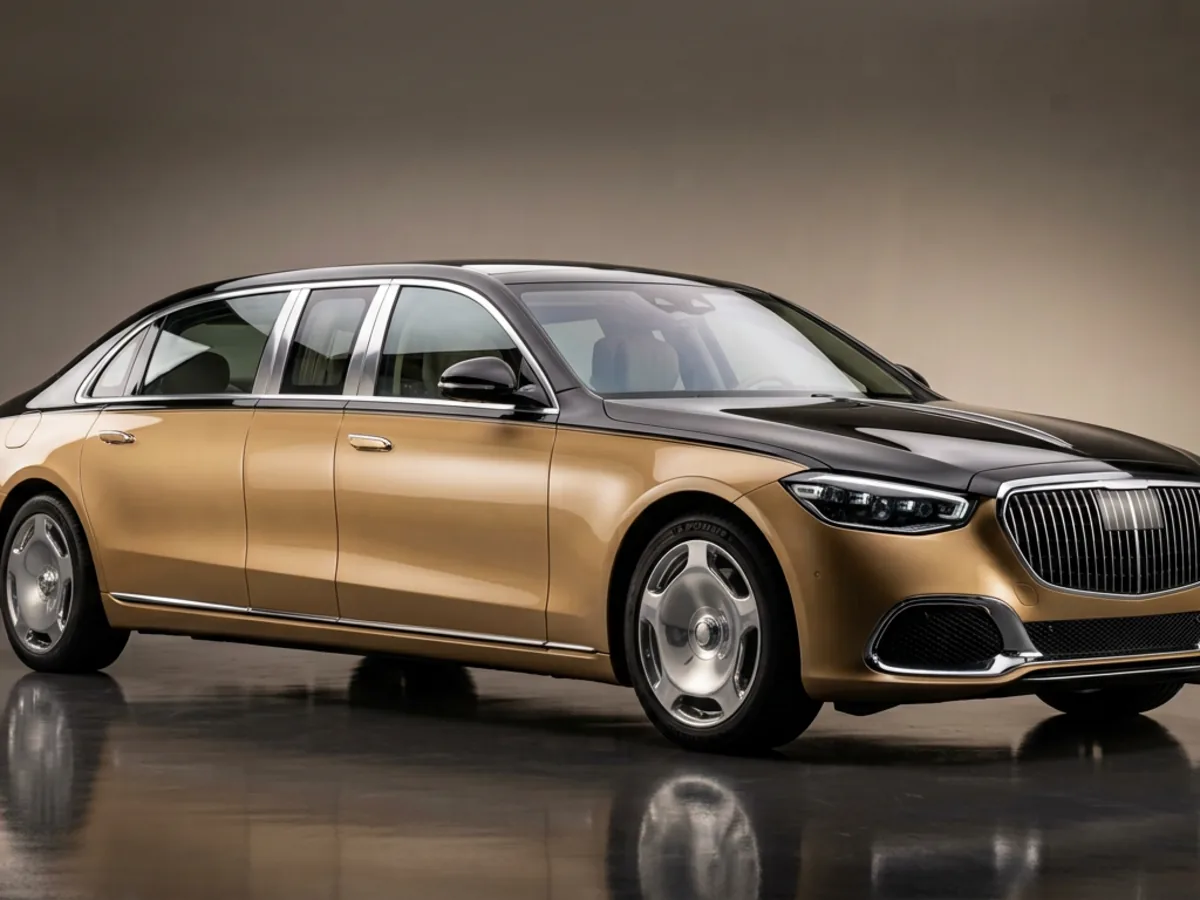
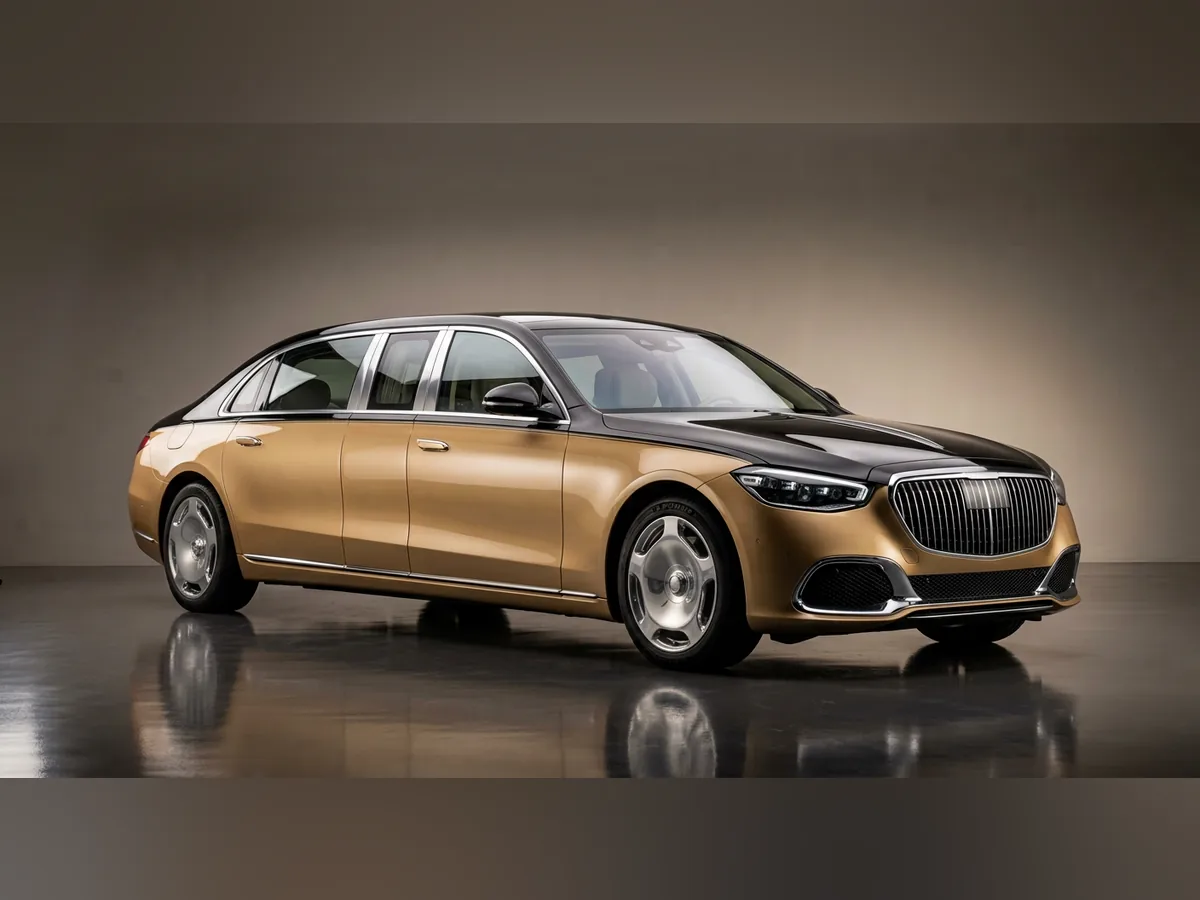
v0.81.0 — вторая десятка авто, ноутбук и кроп без обрезки
Шесть машин (Тесла, розовый кабриолет, Квант, Импульс, Полярник,
Огнедышащий) и первый снимок электроники (laptop-air) — 54 снимка.

Сборщик фото больше не режет широкие кадры вслепую по центру: кроп теперь
только для снимков из списка CROP, остальные вписываются целиком на
продолженный задник, поэтому бампер машины не может уехать за край.

isRotatingPhone возвращает false у моделей со снимком: кадр один, вращать
нечего — подсказка «нажми, он повернётся» больше не врёт.

diff --git a/tests/electronics-art.test.tsx b/tests/electronics-art.test.tsx
@@ -1,7 +1,8 @@
 import { strict as assert } from 'node:assert';
 import { existsSync, statSync } from 'node:fs';
 import { renderToStaticMarkup } from 'react-dom/server';
-import { ELECTRONICS_ART, ElectronicsArt, hasElectronicsArt } from '../src/ui/ElectronicsArt';
+import { ELECTRONICS_ART, ElectronicsArt, hasElectronicsArt, isRotatingPhone } from '../src/ui/ElectronicsArt';
+import { hasProductPhoto } from '../src/ui/ProductPhoto';
 import { ToyArt } from '../src/ui/ToyArt';
 import { ITEM_BY_ID, toysByShelf } from '../src/engine/shop';
 
@@ -14,6 +15,16 @@ for (const [id, file] of Object.entries(ELECTRONICS_ART)) {
   assert.ok(existsSync(path), path);
   assert.ok(statSync(path).size < 400_000, 'Illustrations stay small for offline use');
   const markup = renderToStaticMarkup(<ToyArt id={id} className="test-art" />);
+  if (hasProductPhoto(id)) {
+    // 0.81.0: у модели есть студийный снимок — он и показывается, 3D-арт ждёт
+    // в public/electronics на случай отката. Снимок один, поэтому телефон
+    // с фотографией не притворяется поворотным.
+    assert.ok(markup.includes('product-photo test-art'), `${id}: снимок вместо 3D-арта`);
+    assert.ok(markup.includes(`${import.meta.env.BASE_URL}products/${id}.webp`));
+    assert.ok(existsSync(`public/products/${id}.webp`), `public/products/${id}.webp`);
+    assert.equal(isRotatingPhone(id), false, `${id}: один кадр не вращается`);
+    continue;
+  }
   assert.ok(markup.includes('electronics-art test-art'));
   assert.ok(markup.includes(`${import.meta.env.BASE_URL}electronics/${file}.webp`));
   assert.ok(!markup.includes('<svg'), 'New electronics must not fall back to retro phone SVG');

diff --git a/tests/smoke.test.tsx b/tests/smoke.test.tsx
@@ -761,7 +761,18 @@ async function main() {
   if (phoneTab) click(phoneTab);
   await sleep(30);
   const phoneCard = Array.from(document.querySelectorAll('.shop-item.toy-item')).find((el) => (el.textContent ?? '').includes('iPhone Air'));
-  check('телефоны и электроника остаются отдельным разделом', document.querySelectorAll('.shop-item.toy-item').length === 11 && document.querySelectorAll('.shop-item.toy-item .electronics-art').length === 11 && !!phoneCard?.querySelector('.phone-rotate'), '');
+  // 0.81.0: у моделей постепенно появляются студийные снимки, поэтому полка
+  // считается «арт + фото = 11»: иначе каждая новая фотография ломала бы чек.
+  const electronicsCards = Array.from(document.querySelectorAll('.shop-item.toy-item'));
+  const electronicsPhotos = electronicsCards.filter((el) => !!el.querySelector('img.product-photo')).length;
+  check(
+    'телефоны и электроника остаются отдельным разделом',
+    electronicsCards.length === 11 &&
+      electronicsPhotos === 1 &&
+      document.querySelectorAll('.shop-item.toy-item .electronics-art').length === 11 - electronicsPhotos &&
+      !!phoneCard?.querySelector('.phone-rotate'),
+    `карточек=${electronicsCards.length} фото=${electronicsPhotos}`,
+  );
   check('телефоны внутри полки идут от меньшей цены к большей', pricesAscending('.shop-item.toy-item'));
   const rotatingPhone = phoneCard?.querySelector('.phone-rotate');
   click(rotatingPhone);

diff --git a/src/ui/ElectronicsArt.tsx b/src/ui/ElectronicsArt.tsx
@@ -1,5 +1,6 @@
 import { useState, type CSSProperties } from 'react';
 import { ITEM_BY_ID } from '../engine/shop';
+import { hasProductPhoto } from './ProductPhoto';
 
 /** Stable legacy IDs preserve purchased phones and their place in the hangar. */
 export const ELECTRONICS_ART: Record<string, string> = {
@@ -22,8 +23,13 @@ export function hasElectronicsArt(id: string): boolean {
   return Object.prototype.hasOwnProperty.call(ELECTRONICS_ART, id);
 }
 
+/**
+ * 0.81.0: телефон крутится, только пока у него 3D-арт с обеими сторонами.
+ * Как только модель снята фотографией (один кадр), подсказка «нажми —
+ * повернётся» врала бы: вращать нечего.
+ */
 export function isRotatingPhone(id: string): boolean {
-  return hasElectronicsArt(id) && id.startsWith('phone-');
+  return hasElectronicsArt(id) && id.startsWith('phone-') && !hasProductPhoto(id);
 }
 
 /** Interactive only where explicitly enabled: never nest a button in a hangar button. */

diff --git a/src/ui/ProductPhoto.tsx b/src/ui/ProductPhoto.tsx
@@ -64,7 +64,7 @@ export const PRODUCT_PHOTOS: readonly string[] = [
   'ship-steam',
   'ship-carrier',
   'ship-titanic',
-  // Авто (студийные снимки вместо карандашных рисунков; первая партия)
+  // Авто (студийные снимки вместо карандашных рисунков; 0.80.0 — первая десятка)
   'car-racer',
   'car-jeep',
   'car-taxi',
@@ -75,6 +75,15 @@ export const PRODUCT_PHOTOS: readonly string[] = [
   'car-rolls',
   'car-lambo',
   'car-bugatti',
+  // 0.81.0: вторая десятка — Тесла, розовый кабриолет и техника баз
+  'car-tesla',
+  'car-pink-cabrio',
+  'car-atomic-base',
+  'car-electron-base',
+  'car-arctic-base',
+  'car-steam-base',
+  // Электроника (0.81.0: первый снимок; остальные пока 3D-арт)
+  'laptop-air',
   // Базы (фасады: те же фото показывает и первая точка экскурсии)
   'atomic-base',
   'electron-base',

diff --git a/docs/RELEASE-0.81.0.md b/docs/RELEASE-0.81.0.md
@@ -1,0 +1,49 @@
+# 0.81.0 — фотореализм: вторая десятка авто, ноутбук и кроп без обрезки
+
+Продолжение 0.80.0 (она в этом же PR). Теперь на студийные снимки переведены
+ещё шесть машин, а раздел электроники открыт первым кадром.
+
+## Что изменилось
+
+- **Ещё шесть машин снято в студии.** Тесла с поднятой задней дверью, розовый
+  кабриолет с кремовым салоном, «Квант» с голубым энергоядром в решётке,
+  «Импульс» со светящимися дорожками схем, «Полярник» на двух широких
+  гусеницах с мачтой датчиков и «Огнедышащий» — медный паровоз с настоящим
+  паром из трубы. Всего снимков в магазине 54.
+- **Электроника пошла.** Первым снят «Невесомый Air» — тонкий алюминиевый
+  ноутбук на глянцевом полу. Фото в `ToyArt` стоит раньше 3D-арта, поэтому
+  снимок сам вытесняет прежнюю иллюстрацию и в витрине, и в подробной
+  карточке, и в гардеробе.
+- **Телефон с фотографией не притворяется поворотным.** `isRotatingPhone`
+  теперь возвращает `false`, если у модели есть снимок: кадр один, крутить
+  нечего — и подсказка «нажми, он повернётся» больше не врёт.
+
+## Исправлено
+
+- **Кроп фото товаров.** Сборщик резал любой широкий кадр (1408×768) до 4:3
+  по центру, то есть терял по 14 % ширины с каждой стороны. У машин корпус
+  идёт почти во всю ширину кадра, и в витрине срезало то передний бампер, то
+  корму — ровно та жалоба, с которой всё началось. Теперь кроп — не правило,
+  а исключение: он применяется только к снимкам из списка `CROP`, где предмет
+  заведомо компактнее окна (`car-arctic-base`, `laptop-air`). Все остальные
+  кадры вписываются целиком на продолженный студийный задник, поэтому новый
+  снимок не может потерять бампер по недосмотру.
+- Побочный плюс: пересобранные кадры первой десятки тоже перестали обрезаться.
+
+## Проверки
+
+- `tests/electronics-art.test.tsx`: для моделей со снимком проверяется
+  `img.product-photo` и `products/<id>.webp`, а 3D-арт остаётся запасным
+  вариантом в `public/electronics`; для остальных — прежние проверки арта.
+  Отдельно проверяется, что телефон с фотографией не вращается.
+- `tests/smoke.test.tsx`: полка электроники считается как «арт + фото = 11»,
+  чтобы каждая новая фотография не ломала чек.
+- `npm run typecheck`, `npm run build`, `npm run test:smoke`, `test:boot`,
+  `test:guard`, `test:contrast` — зелёные.
+
+## Дальше
+
+Переснять три кадра, которые не прошли приёмку: «Розовая звезда» без звезды
+на капоте, «Розовый танк» с надписью U.S.A. на броне и «Луноход» — у ровера
+вышло четыре колеса на борт вместо трёх. Потом остальные десять позиций
+электроники.
